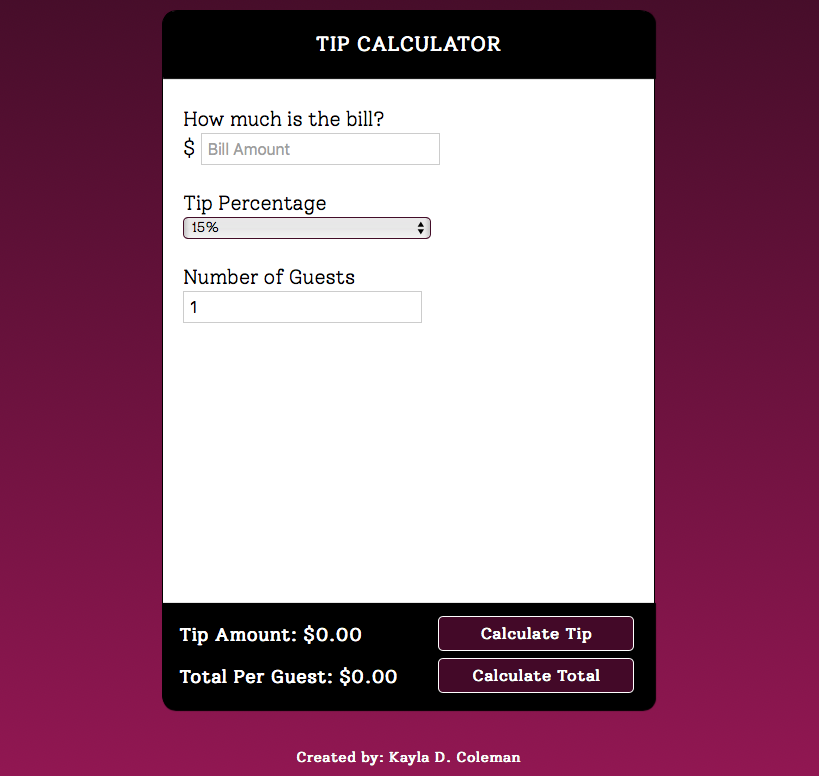
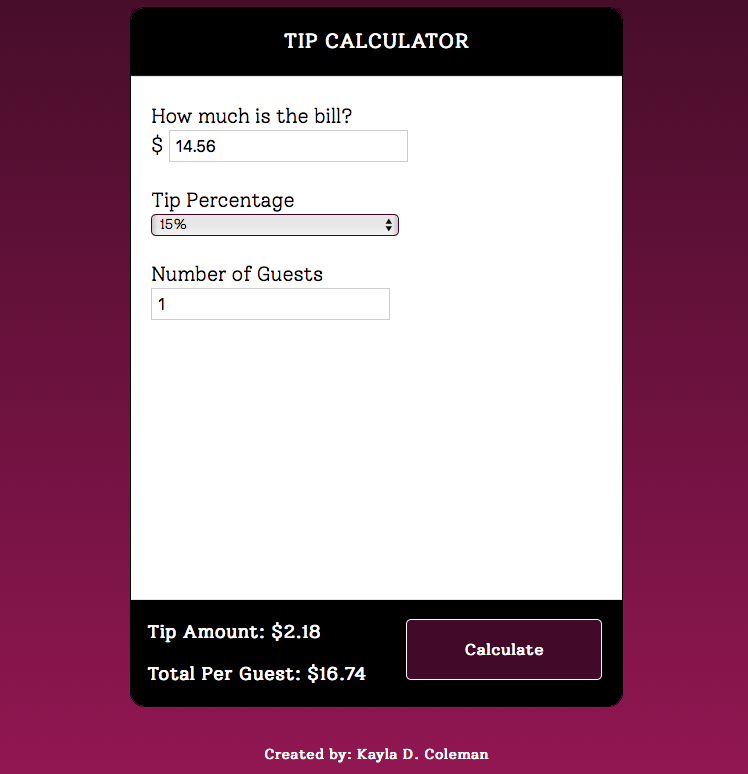
Use one button to calculate tip and total simultaneously

diff --git a/tipApp/tip.css b/tipApp/tip.css
@@ -69,7 +69,7 @@ h1, h2 {
     width: 60%;
   }
 
-  button.top, button.bottom {
+  button {
     background-color: #4c0b2d;
     color: #FFF;
     font-size: 16px;
@@ -79,21 +79,15 @@ h1, h2 {
     border: 1px solid #FFF;
     border-radius: 5px;
     width: 40%;
-    padding: 7px;
+    padding: 20px 7px;
     display: inline-block;
     margin-left: 30px;
     position: absolute;
+    top: 15%;
+    left: 50%;
   }
-  button.top:hover, button.bottom:hover {
+  button:hover {
     background-color: #9d185e;
-  }
-  button.top {
-    top: 10%;
-    left: 50%;
-  }
-  button.bottom {
-    top: 50%;
-    left: 50%;
   }
 
   form {

diff --git a/tipApp/tipper.html b/tipApp/tipper.html
@@ -30,10 +30,9 @@
         <br><br><br><br><br><br><br><br><br><br><br><br><br>
 
         <div class="section bottom">
-          <h2 id="tipAmount">Tip Amount: $0.00</h2>
-          <button class="top" onclick="displayTip()">Calculate Tip</button><br>
+          <h2 id="tipAmount">Tip Amount: $0.00</h2><br>
           <h2 id="totalAmount">Total Per Guest: $0.00</h2>
-          <button class="bottom" onclick="displayTotal()">Calculate Total</button>
+          <button onclick="displayTip(); displayTotal()">Calculate</button>
         </div>
 
     </div>
